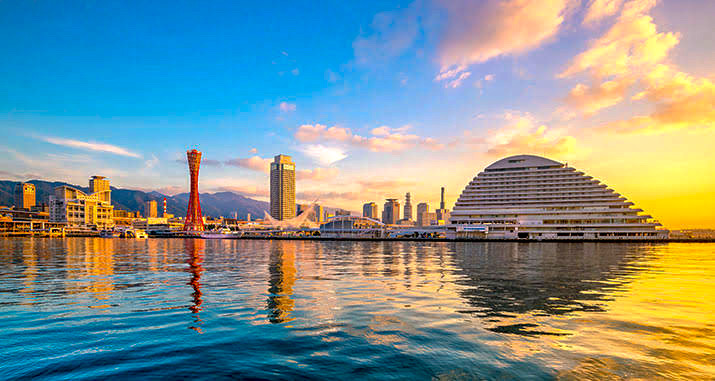
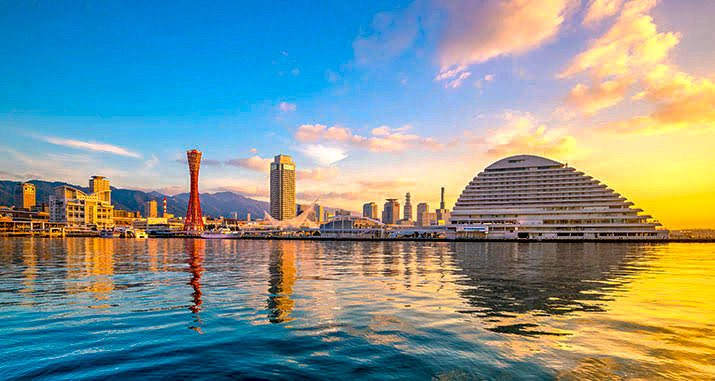
perf(images): 全写真を長辺1600px/JPEG圧縮で軽量化(合計50MB→6.4MB)・EXIF傾き補正／資材棚2枚追加・集合写真をjpg化

diff --git a/about.html b/about.html
@@ -222,6 +222,11 @@
       </article>
     </div>
 
+    <div class="reveal" style="display:grid; grid-template-columns:1fr 1fr; gap:1rem; margin-top:1.2rem;">
+      <img src="/assets/photos/seibi-shelf2.jpg" alt="ラベル管理された資材棚（環境整備）" loading="lazy" style="width:100%; aspect-ratio:4/3; object-fit:cover; border-radius:14px; display:block;" />
+      <img src="/assets/photos/seibi-shelf3.jpg" alt="定位置管理された部材棚（環境整備）" loading="lazy" style="width:100%; aspect-ratio:4/3; object-fit:cover; border-radius:14px; display:block;" />
+    </div>
+
     <figure class="reveal" style="margin:1.8rem 0 0;">
       <img src="/assets/photos/seibi-meeting.jpg" alt="環境整備の実行計画を全員で共有するミーティング" loading="lazy"
            style="width:100%; border-radius:16px; box-shadow:var(--shadow); display:block;" />

diff --git a/recruit.html b/recruit.html
@@ -226,7 +226,7 @@
       </p>
     </div>
     <figure class="reveal" style="margin:2rem 0 0;">
-      <img src="/assets/photos/team.png" alt="株式会社オールライト 第9期 経営計画発表会 社員集合" loading="lazy"
+      <img src="/assets/photos/team.jpg" alt="株式会社オールライト 第9期 経営計画発表会 社員集合" loading="lazy"
            style="width:100%; border-radius:18px; box-shadow:var(--shadow); display:block;" />
       <figcaption style="text-align:center; font-size:.8rem; color:rgba(255,255,255,.5); margin-top:.7rem;">第9期 経営計画発表会（社員集合）</figcaption>
     </figure>
